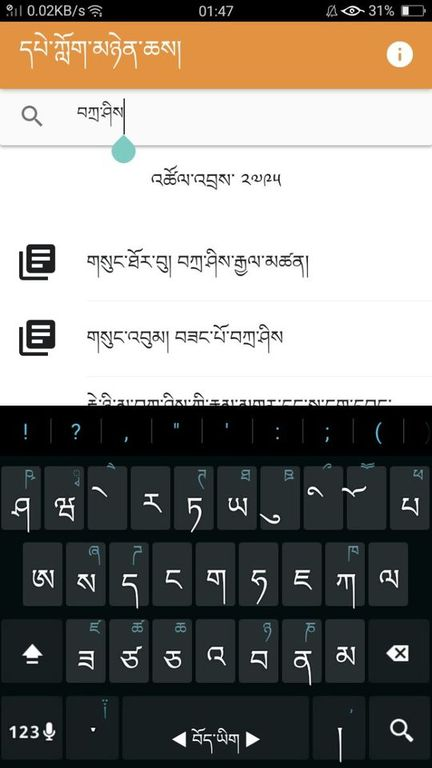
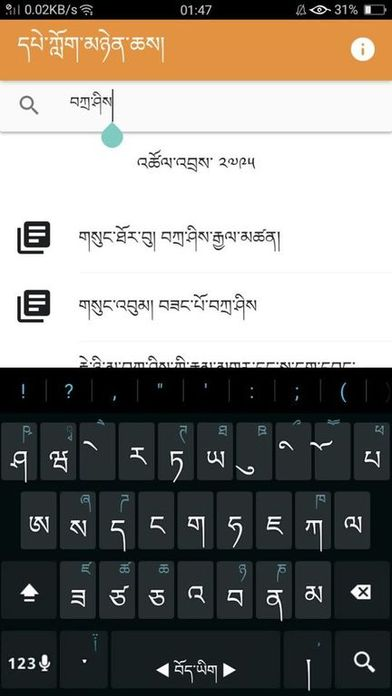
Deployed 1a371dd with MkDocs version: 0.16.3

diff --git a/bdrcapp/bdrcapp-cn/index.html b/bdrcapp/bdrcapp-cn/index.html
@@ -34,13 +34,13 @@
       var is_top_frame = false;
         
         var pageToc = [
-          {title: "\u56fd\u9645\u6587\u732e\u4fdd\u62a4\u57fa\u91d1\u4f1a\uff08\u56fd\u9645\u6587\u732e\u4fdd\u62a4\u57fa\u91d1\u4f1a\uff09\u56fe\u4e66\u9986\u624b\u673a\u8f6f\u4ef6", url: "#_1", children: [
+          {title: "\u56fd\u9645\u6587\u732e\u4fdd\u62a4\u57fa\u91d1\u4f1a \u56fe\u4e66\u9986\u624b\u673a\u8f6f\u4ef6", url: "#_1", children: [
           ]},
-          {title: "#\u79bb\u7ebf\u53d6\u5f97\u5143\u6570\u636e", url: "#_2", children: [
+          {title: "\u79bb\u7ebf\u53d6\u5f97\u5143\u6570\u636e", url: "#_2", children: [
           ]},
-          {title: "#\u5728\u7ebf\u53d6\u5f97\u626b\u63cf\u6587\u672c", url: "#_3", children: [
+          {title: "\u5728\u7ebf\u53d6\u5f97\u626b\u63cf\u6587\u672c", url: "#_3", children: [
           ]},
-          {title: "#\u672a\u6765\u7684\u7248\u672c", url: "#_4", children: [
+          {title: "\u672a\u6765\u7684\u7248\u672c", url: "#_4", children: [
           ]},
         ];
 
@@ -82,18 +82,18 @@ if (is_top_frame) { $('body').addClass('wm-top-page'); }
 
     
 
-    <h1 id="_1">国际文献保护基金会（国际文献保护基金会）图书馆手机软件</h1>
+    <h2 id="_1">国际文献保护基金会 图书馆手机软件</h2>
 <p>为了利益国际文献保护基金会的全球用户，<strong>国际文献保护基金会图书馆</strong> 手机软件让用户可以直接从移动装置进入国际文献保护基金会图书馆资料库，尤其是在互联网较不稳定时。这个软件目前有藏语版，中英文版将在下一次发行时推出。</p>
 <p><img alt="2" src="../../img/app3.jpg" /> </p>
 <p>使用iPhone的FRS和DPEs可以从<a href="https://itunes.apple.com/us/app/bdrc-lib/id1254032189?mt=8">应用商店</a>获取此软件，使用安卓系统的可以从下面的链接获取软件，或从<a href="https://play.google.com/store/apps/details?icd=org.tbrc.bdrclibapp">谷歌Play商店</a>取得。</p>
 <p><a href="https://github.com/BuddhistDigitalResourceCenter/digitization-guidelines/releases/download/v1.0.0/android-release.apk"><button type="button" class="btn btn-default btn-md"><i class="fa fa-apple"></i>  BDRC-Lib v1.0.0</button></a></p>
-<h1 id="_2">#离线取得元数据</h1>
+<h2 id="_2">离线取得元数据</h2>
 <p>此软件是开发来在离线环境中搜索国际文献保护基金会图书馆中超过35万册的西藏图书。DPEs和FRS可以透过搜索以下的元数据来查找某本图书 1）图书的标题，2）该图书中包含的所有书名，3）作者的所有名字，4）出版信息。无论移动装置是否连接到互联网都能搜索元数据。</p>
-<p><img alt="2" src="../../img/app2.jpg" /> </p>
-<h1 id="_3">#在线取得扫描文本</h1>
+<p><img alt="2" src="../../img/app4.jpeg" /> </p>
+<h2 id="_3">在线取得扫描文本</h2>
 <p>一旦联上互联网·，图书人员就可以浏览页面图像的扫描档。首先打开的是书的封面，书末的版本信息则可以用手指从左刷到右而轻松取得。这使得确认图书的工作更加容易。</p>
-<p><img alt="3" src="../../img/app6.png" /></p>
-<h1 id="_4">#未来的版本</h1>
+<p><img alt="3" src="../../img/app4.png" /></p>
+<h2 id="_4">未来的版本</h2>
 <p>国际文献保护基金会计划近期就会再发行两个新的版本，所以请继续关注此软件的更新讯息。第二个版本将包括图书馆图书的更新功能，以便用户能方便地搜索国际文献保护基金会图书馆数据库的最新资料。第二个版本将包括中英文版本，以及下载文本PDF档的功能。第三个版本将包括诸如请求扫描某个文本的协作功能，建议修改，建议在图书馆中收藏某本书，和一个可直接搜索国际文献保护基金会图书馆的桌上型计算机软件。协作功能将允许读者与国际文献保护基金会图书馆的业务流程和新增图书有更多的互动。</p>
 
   <br>

diff --git a/bdrcapp/bdrcapp-en/index.html b/bdrcapp/bdrcapp-en/index.html
@@ -35,9 +35,12 @@
         
         var pageToc = [
           {title: "BDRC Library Mobile App", url: "#bdrc-library-mobile-app", children: [
-              {title: "Offline Access to Metadata", url: "#offline-access-to-metadata" },
-              {title: "Online Access to Scanned Texts", url: "#online-access-to-scanned-texts" },
-              {title: "Future Releases", url: "#future-releases" },
+          ]},
+          {title: "Offline Access to Metadata", url: "#offline-access-to-metadata", children: [
+          ]},
+          {title: "Online Access to Scanned Texts", url: "#online-access-to-scanned-texts", children: [
+          ]},
+          {title: "Future Releases", url: "#future-releases", children: [
           ]},
         ];
 
@@ -79,14 +82,14 @@ if (is_top_frame) { $('body').addClass('wm-top-page'); }
 
     
 
-    <h1 id="bdrc-library-mobile-app">BDRC Library Mobile App</h1>
+    <h2 id="bdrc-library-mobile-app">BDRC Library Mobile App</h2>
 <p>The <strong>BDRC Lib</strong> app provides direct access to BDRC’s library on mobile devices to benefit BDRC’s global users, particularly where access to the Internet is less reliable. It is currently available in Tibetan language, and will be made available in both English and Chinese in a forthcoming release. </p>
 <p><img alt="2" src="../../img/app3.jpg" /> </p>
 <p>The FRs and DPEs who use iPhones can download the app from the <a href="https://itunes.apple.com/us/app/bdrc-lib/id1254032189?mt=8">App Store</a>. Those who are on Android can use the following link, or download it from <a href="https://play.google.com/store/apps/details?id=org.tbrc.bdrclibapp">Google Play</a>.</p>
 <p><a href="https://github.com/BuddhistDigitalResourceCenter/digitization-guidelines/releases/download/v1.0.0/android-release.apk"><button type="button" class="btn btn-primary btn-md"><i class="fa fa-android"></i>  BDRC-Lib v1.0.0</button></a></p>
 <h2 id="offline-access-to-metadata">Offline Access to Metadata</h2>
 <p>The App is designed to work offline to search the vast repository of more than 350,000 Tibetan titles in the BDRC library. The DPEs and Frs can look for a work by searching metadata including 1) the title of the work, 2) titles of texts contained in that work, 3) any of the author's names, 4) publication information. The metadata search will work whether or not the device is connected to the Internet.</p>
-<p><img alt="2" src="../../img/app2.jpg" /> </p>
+<p><img alt="2" src="../../img/app4.jpeg" /> </p>
 <h2 id="online-access-to-scanned-texts">Online Access to Scanned Texts</h2>
 <p>Once online, the staff can browse the scanned page images. The book will open on the cover page and the colophon at the end of the book can be accessed easily by swiping from left to right. This makes the identification of a work much easier.</p>
 <p><img alt="3" src="../../img/app4.png" /></p>

diff --git a/index.html b/index.html
@@ -331,5 +331,5 @@ if (is_top_frame) { $('body').addClass('wm-top-page'); }
 </html>
 <!--
 MkDocs version : 0.16.3
-Build Date UTC : 2017-07-26 19:51:57
+Build Date UTC : 2017-07-26 20:00:13
 -->
